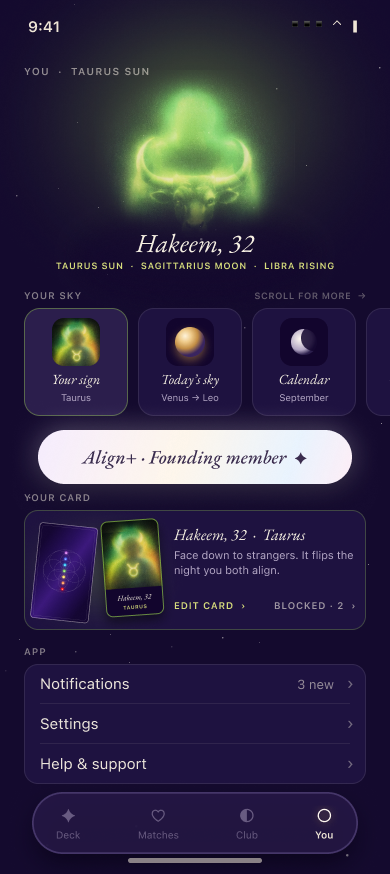
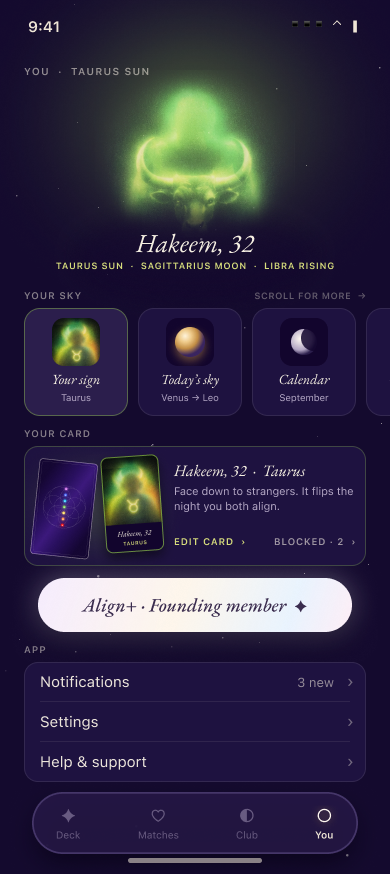
G-05 hub: Align+ button below the Your card preview
Claude-Session: https://claude.ai/code/session_016YjMTARDAwfH7MsqGSPAVh

Changed region(s): [[0.0615, 0.4634, 0.9231, 0.8341], [0.1231, 0.865, 0.3692, 0.8959], [0.7692, 0.7723, 0.8615, 0.8032]]

diff --git a/design/scores.md b/design/scores.md
@@ -431,3 +431,7 @@ preview panel: the face-down back and the flipped face as two mini cards
 veil line (*Face down to strangers. It flips the night you both align.*),
 and two caps actions, `EDIT CARD ›` (→ G-27) and `BLOCKED SIGNS · 2 ›`
 (→ P-01). The whole panel opens G-05a.
+
+Order on the hub, founder note: the pearl `Align+ · Founding member ✦` sits
+**below** the Your card preview (carousel 308–416 · YOUR CARD 428 / preview
+446–566 · CTA 578–632 · APP 644 / panel 662–782).
